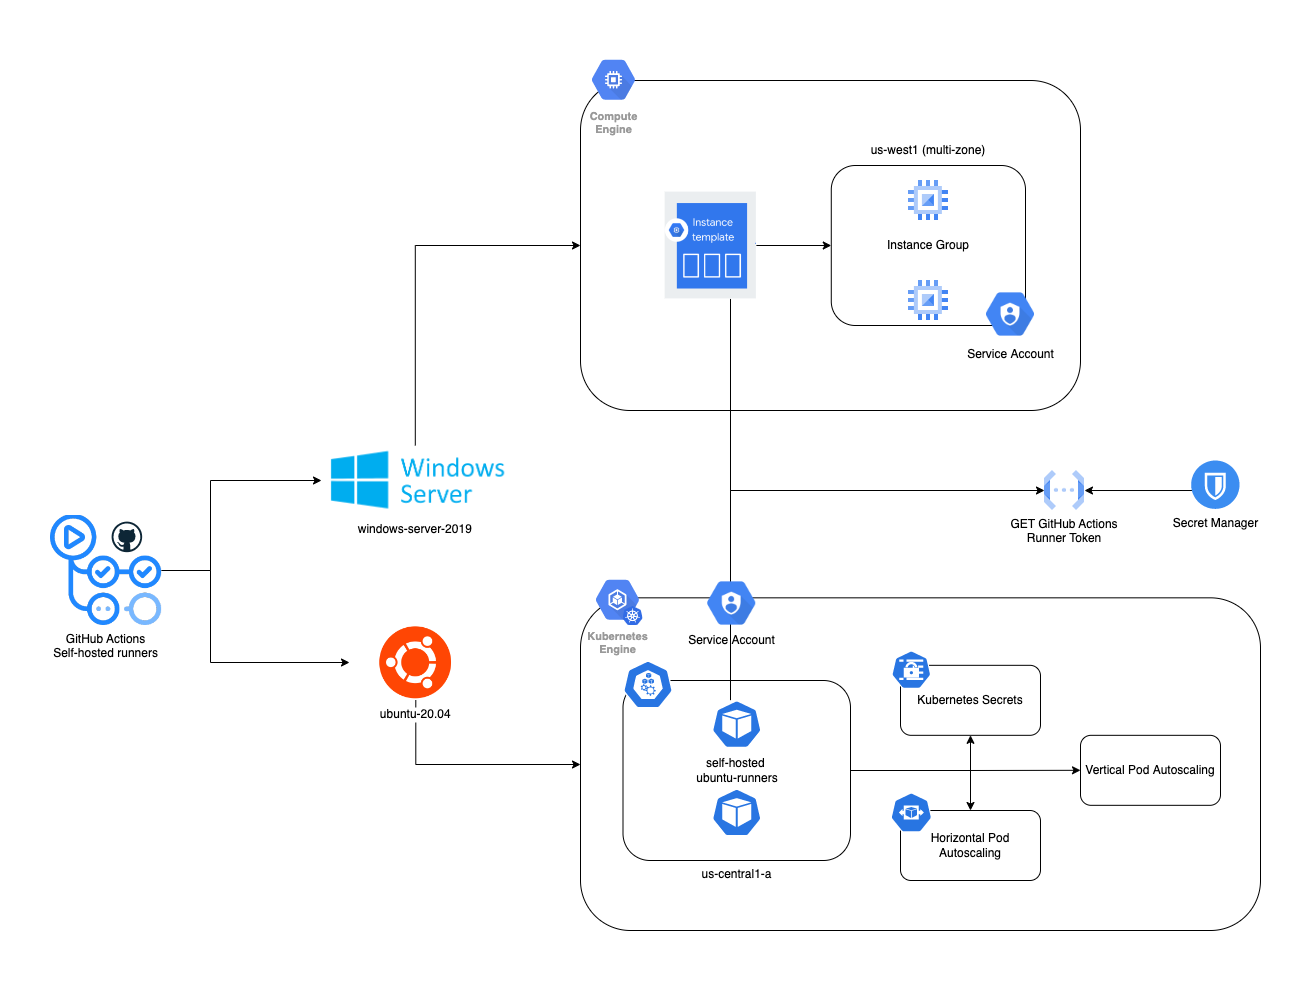
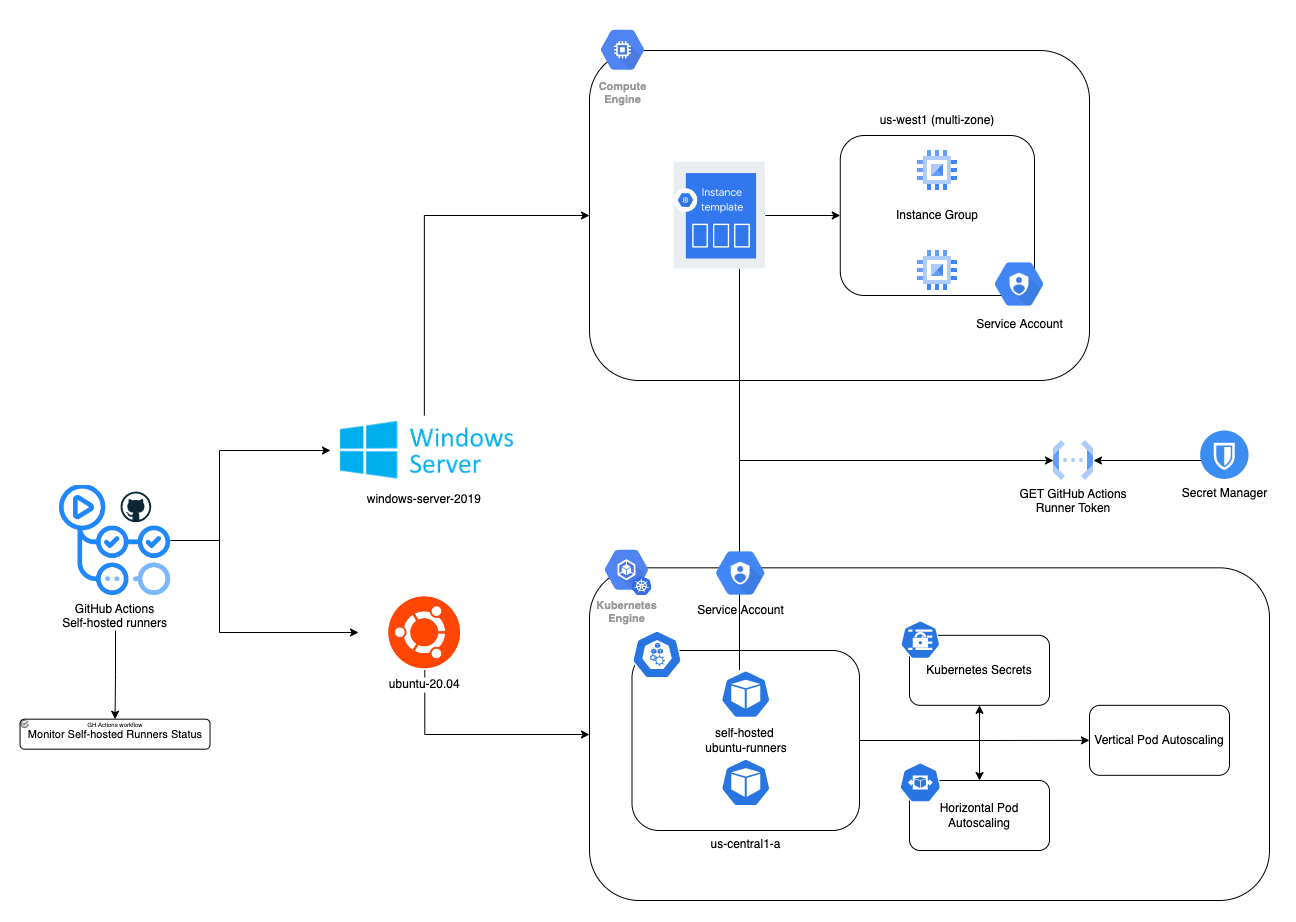
Adding GitHub Actions important information into ACTIONS.md readme file. Updated self-hosted-runners-architecture diagram.

diff --git a/.github/ACTIONS.md b/.github/ACTIONS.md
@@ -17,9 +17,42 @@
     under the License.
 -->
 
-> **PLEASE update this file if you add new github action or change name/trigger phrase of a github action.**
+> **PLEASE update this file if you add new GitHub Action or change name/trigger phrase of a GitHub Action.**
 
-## Beam Github Actions
+## Beam GitHub Actions 
+
+Currently, we have both GitHub-hosted and self-hosted (GCP cloud) runners for running the GitHub Actions workflows. The majority of our workflows that run in Ubuntu and Windows run in self-hosted runners, except for those that runs on MacOS and the `Monitor Self-Hosted Runners Status` workflow that monitors our GCP self-hosted runners. 
+
+### Getting Started with self-hosted runners
+* The steps for creating your own self-hosted runners for testing your workflows in: `.github/gh-actions-self-hosted-runners/README.md`
+* Depending on your workflow's needs, it must specify the following `runs-on` tags to run in the specified operating system:
+  * Ubuntu 20.04 self-hosted runner: `[self-hosted, ubuntu-20.04]`
+  * Windows 2019 self-hosted runner: `[self-hosted,windows-server-2019]` 
+  * MacOS GitHub-hosted runner: `macos-latest`
+* Every workflow that tests the source code, needs to have the workflow trigger `pull_request_target` instead of `pull_request`.
+* For those workflows that have the `pull_request_target` trigger, in the checkout step must be added a ref to `${{ github.event.pull_request.head.sha }}` 
+``` yaml
+    - name: Checkout code
+      uses: actions/checkout@v#
+      with:
+        ref: ${{ github.event.pull_request.head.sha }}
+```
+* If your workflow runs successfully in a GitHub-hosted runner but not in the self-hosted runner, it might need a new installation step. 
+```yaml
+  - name: Setup Node
+    uses: actions/setup-node@v3
+    with:
+      node-version: 16
+```
+
+* You can find the GitHub-hosted runner installations in the following links:
+  * [Ubuntu-20.04](https://github.com/actions/runner-images/blob/main/images/linux/Ubuntu2004-Readme.md#installed-apt-packages)
+  * [Windows-2019](https://github.com/actions/runner-images/blob/main/images/win/Windows2019-Readme.md)
+
+#### IMPORTANT for Committers
+* A **detailed review** for changes in the workflows is needed due to important **security concerns**.
+* **DO NOT** Approve and Run changes in the workflows in the PR Conversation tab, under "Workflow(s) awaiting approval".
+* For approving the updates in the workflows, you should go to the Repository Actions and filter All Workflows by `action_required`. The search will display the workflows that need to be reviewed before running. **Please make sure reviewing the file that is referenced by the workflow.**
 
 ### Issue Management
 
